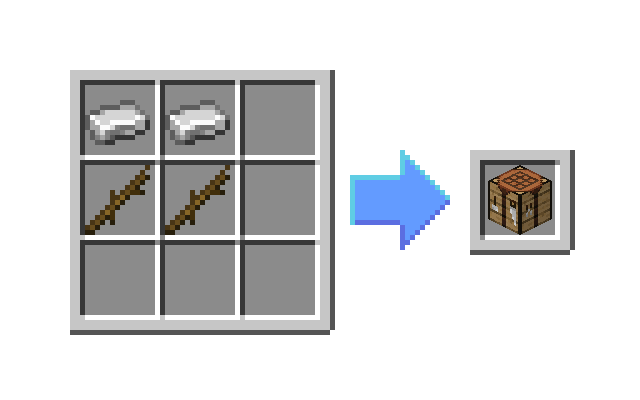
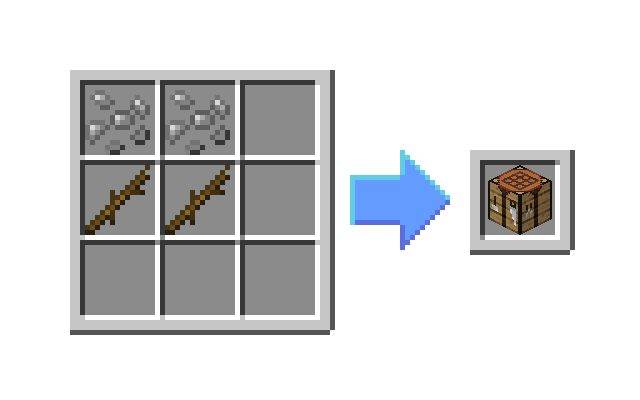
First day tutorial 90% done

Changed region(s): [[0.125, 0.21, 0.375, 0.39]]

diff --git a/IS2/firstday.html b/IS2/firstday.html
@@ -28,7 +28,7 @@
         <h3>Common Block Drops</h3>
 
         <!-- Block drops tables -->
-        <div class="block-drops">
+        <div class="e">
             <table>
                 <tr>
                     <th>Leaves</th>
@@ -163,12 +163,14 @@
             Now that we have the kindling we actually need to make the campfire.
             For that, we need a workbench. Let's get one. Find some sand and dig around until you find metal salvage.
             Once you have the salvage, turn it into some metal fragments.<br>
-            <br><i> Note: The recipe provides two fragments for each piece of salvage. </i>
+            <br><i> Note: The recipe provides <b>two</b> fragments for each piece of salvage. </i>
         </p>
 
         <img src="fragmentrecipe.png">
 
         <h3>Workbenching</h3>
+
+        <i>(How much can you bench, bro?)</i>
 
         <p>
             Now we can make our workbench! Grab your sticks, some metal fragments, and here we go..
@@ -197,6 +199,29 @@
 
         <img src="campfirerecipe.png">
 
+        <h3>Light It Up</h3>
 
+        <p>
+            If you placed the campfire, you've probably noticed by now that it's not lit. 
+            To light it, we'll need a fire starter.
+            Head back to the shore to mine for another piece of salvage and make sure
+            you have a pebble handy.
+            When you have those two things we can craft our fire starter.
+        </p> <br>
+
+        <img src="starterrecipe.png">
+
+        <p>
+            With your fire starter handy, right click on the campfire to light it.
+        </p> <br>
+
+        <h3>Good Job</h3>
+
+        <p>
+            If you have a basic shelter with a cozy campfire inside you're a lot closer to not dying!
+            Congrulations!
+        </p> <br>
+
+        <img src ="shelter.png" width="1280" height="800">
     </body>
 </html>
